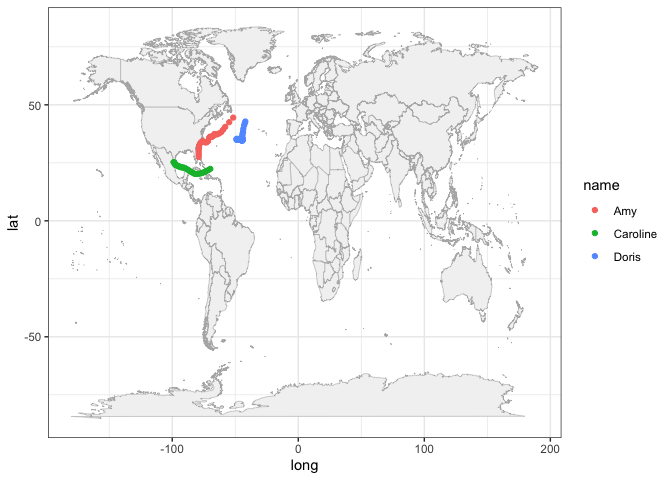
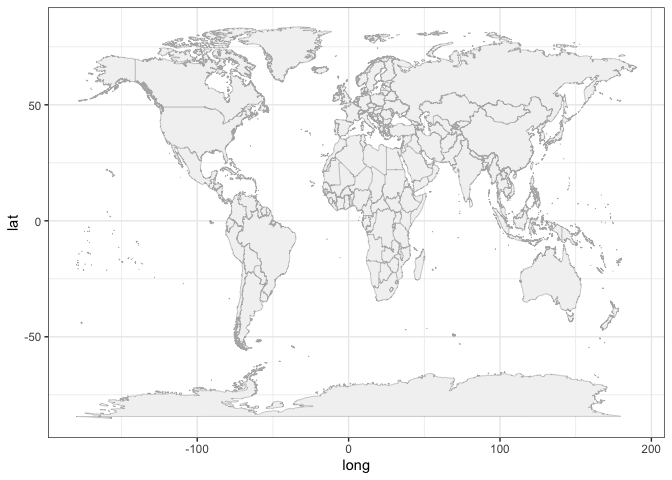
Update day2 part2 files

diff --git a/all_class_resources/Module1-Hurricanes/806-edss-day2-part2.md b/all_class_resources/Module1-Hurricanes/806-edss-day2-part2.md
@@ -3,12 +3,19 @@ Day 2.2): Mapping Hurricanes
 
 ## Basic Geospatial EDA
 
+In the previous parts, you were introduced to the basics of `"dplyr"`
+and `"ggplot2"`, performing various operations on the data `storms`.
+Because this data set contains geographical information such as
+longitude and latitude, we take a further step in this chapter in order
+to learn about plotting basic geographical maps.
+
 You will need the following packages:
 
 ``` r
-library(dplyr)
-library(ggplot2)
-library(maps)
+library(dplyr)    # for syntactic manipulation of tables
+library(ggplot2)  # for making graphs based on tabular data
+library(maps)     # for drawing basic geographical maps
+library(rnaturalearth)   # world map data from Natural Earth
 ```
 
 and the following objects:
@@ -19,21 +26,29 @@ storms75 <- filter(storms, year == 1975)
 
 ## Graphing Maps
 
-In this chapter, we give a basic exposure to plotting maps with
-`"ggplot2"` and `"maps"`. Keep in mind that there is a wide array of
-packages for graphing all sorts of maps, and geospatial information.
-Good resources to look at are:
+In this part, we give a basic exposure to plotting maps with `"ggplot2"`
+and `"maps"`. Keep in mind that there is a wide array of packages for
+graphing all sorts of maps, and geospatial information. Good resources
+to look at are:
 
-<a href="https://geocompr.robinlovelace.net/" target="_blank">Geocomputation
-with R</a> (by Robin Lovelace, Jakub Nowosad, and Jannes Muenchow)
+  - <a href="https://www.r-spatial.org/r/2018/10/25/ggplot2-sf.html" targe="_blank">Drawing
+    beautiful maps programmatically with R, sf and ggplot2</a> (by Mel
+    Moreno and Mathieu Basille)
 
-<a href="https://eriqande.github.io/rep-res-web/lectures/making-maps-with-R.html" target="_target">Making
-Maps with R</a> (by Eric C. Anderson)
+  - <a href="https://geocompr.robinlovelace.net/" target="_blank">Geocomputation
+    with R</a> (by Robin Lovelace, Jakub Nowosad, and Jannes Muenchow)
+
+  - <a href="https://eriqande.github.io/rep-res-web/lectures/making-maps-with-R.html" target="_target">Making
+    Maps with R</a> (by Eric C. Anderson)
 
 ### Plotting location of storm records
 
+For illustration purposes, we continue using the data frame `storms75`.
 Having latitude and longitude, we can make a scatterplot to see the
-location of the storm records
+location of the storm records. Recall that the `ggplot` function to do
+this is `geom_point()`. To distinguish each storm, we can color the dots
+by taking into account the different storm names. This involves
+*mapping* the column `name` to the `color` attribute:
 
 ``` r
 ggplot(data = storms75, aes(x = long, y = lat, color = name)) + 
@@ -42,7 +57,20 @@ ggplot(data = storms75, aes(x = long, y = lat, color = name)) +
 
 ![](806-edss-day2-part2_files/figure-gfm/unnamed-chunk-3-1.png)<!-- -->
 
-This is good, but it would be better to have an actual image of a map.
+Keep in mind that the previous command can also be written as:
+
+``` r
+# alternative ways to write equivalent commands
+ggplot(data = storms75) +  
+  geom_point(aes(x = long, y = lat, color = name))
+
+ggplot() +  
+  geom_point(data = storms75, aes(x = long, y = lat, color = name))
+```
+
+The above scatterplot is a good starting point to visualize the location
+of the storm records, but it would be nice to have an actual image of a
+map. Let’s see how to do this in the following subsections.
 
 ### Basic map
 
@@ -67,7 +95,7 @@ ggplot() +
                aes(x = long, y = lat, group = group))
 ```
 
-![](806-edss-day2-part2_files/figure-gfm/unnamed-chunk-4-1.png)<!-- -->
+![](806-edss-day2-part2_files/figure-gfm/unnamed-chunk-5-1.png)<!-- -->
 
 In the above command, notice how we specify the `data` argument inside
 `geom_polygon()` instead of inside `ggplot()`. We do this because the
@@ -75,9 +103,9 @@ data frame `world_map` is used to graph the layer of the map. We still
 need to add another layer—via `geom_point()`—for the coordinates
 indicating the position of each storm’s record.
 
-For convenience reasons, let’s modify the map, and create a `"ggplot"`
-object called `gg_world`. We’ll use this object as our “canvas” for
-plotting the storm locations:
+To handle the code more easily, let’s modify the map, and create a
+`"ggplot"` object called `gg_world`. We’ll use this object as our
+“canvas” for plotting the storm locations:
 
 ``` r
 # map "canvas" stored as gg_world
@@ -90,11 +118,15 @@ gg_world <- ggplot() +
 gg_world
 ```
 
-![](806-edss-day2-part2_files/figure-gfm/unnamed-chunk-5-1.png)<!-- -->
+![](806-edss-day2-part2_files/figure-gfm/unnamed-chunk-6-1.png)<!-- -->
 
-Then, we can take `gg_world` and add the `geom_point()` layer with data
-`storms75` mapping longitude and latitude coordinates, and coloring
-points by `name`:
+Now that we know how to plot a map with `ggplot()`, we can add the
+points of the storm records. This is done with `geom_point()`, and
+specifying `storms75` as the `data` argument inside this function. In
+other words, we are using two separate data frames. One is `world_map`,
+used to draw the polygons of the map; the other one is `stomrs75` to
+graph the dots of each storm. Notice also that there are no inputs
+provided to the function `ggplot()`.
 
 ``` r
 # world map, adding storms in 1975
@@ -103,9 +135,10 @@ gg_world +
              aes(x = long, y = lat, color = name))
 ```
 
-![](806-edss-day2-part2_files/figure-gfm/unnamed-chunk-6-1.png)<!-- -->
+![](806-edss-day2-part2_files/figure-gfm/unnamed-chunk-7-1.png)<!-- -->
 
-We can try zooming-in by modifying the x-and-y axis limits:
+Because the analyzed hurricanes occurred in the North Atlantic basin, we
+can focus on that region by modifying the x-and-y axis limits:
 
 ``` r
 # zoom-in
@@ -116,10 +149,14 @@ gg_world +
   ylim(c(0, 90))
 ```
 
-![](806-edss-day2-part2_files/figure-gfm/unnamed-chunk-7-1.png)<!-- -->
+![](806-edss-day2-part2_files/figure-gfm/unnamed-chunk-8-1.png)<!-- -->
 
-And then keep exploring things by taking into account more variables.
-For instance, let’s map `wind` to the `size` argument of points.
+It’s worth mentioning that this zooming-in has a secondary effect of
+distorting some of the polygons. For example, Alaska seems to get cut in
+half. Also the polygon of Colombia is incomplete. Ignoring these
+distortions for now, we can continue exploring things by taking into
+account more variables. For instance, let’s map the `wind` speed to the
+`size` argument of points.
 
 ``` r
 gg_world +
@@ -130,9 +167,10 @@ gg_world +
   ylim(c(0, 90))
 ```
 
-![](806-edss-day2-part2_files/figure-gfm/unnamed-chunk-8-1.png)<!-- -->
+![](806-edss-day2-part2_files/figure-gfm/unnamed-chunk-9-1.png)<!-- -->
 
-A very similar appearance can be achieved with `geom_path()`
+A very similar appearance can be achieved by replacing `geom_point()`
+with `geom_path()`:
 
 ``` r
 gg_world +
@@ -143,7 +181,65 @@ gg_world +
   ylim(c(0, 90))
 ```
 
-![](806-edss-day2-part2_files/figure-gfm/unnamed-chunk-9-1.png)<!-- -->
+![](806-edss-day2-part2_files/figure-gfm/unnamed-chunk-10-1.png)<!-- -->
+
+### More mapping approaches
+
+Another interesting map graphing approach is by using map-objects from
+the package `"rnaturalearth"`.
+
+We use the `ne_countries()` function—from `"rnaturalearth"`—to get world
+country polygons. In the following command, we specify a `medium` scale
+resolution, and a returned object of class `"sf"` (simple features).
+
+``` r
+# another world data frame
+world_df <- ne_countries(scale = "medium", returnclass = "sf")
+class(world_df)
+```
+
+    ## [1] "sf"         "data.frame"
+
+Now we can pass `world_df` to `ggplot()`, and use `geom_sf()` which is
+the function that allows us to visualize *simple features* objects
+`"sf"`.
+
+``` r
+# another world map (from "rnaturalearth")
+ggplot(data = world_df) +
+  geom_sf() + 
+  theme_bw()
+```
+
+![](806-edss-day2-part2_files/figure-gfm/world3-1.png)<!-- -->
+
+One advantage of using this other mapping approach is that we can
+zoom-in without having distorted polygons. To focus on a specfic region,
+we set the x-axis and y-axis limits with the `coord_sf()` function.
+Again, for coding convenience, let’s create another `"ggplot"` object
+
+``` r
+# ggplot object to be used as a canvas
+gg_world2 <- ggplot(data = world_df) +
+  geom_sf() + 
+  coord_sf(xlim = c(-150, 0), ylim = c(0, 90), expand = TRUE) +
+  theme_bw()
+
+gg_world2
+```
+
+![](806-edss-day2-part2_files/figure-gfm/world4-1.png)<!-- -->
+
+Now let’s add the storms:
+
+``` r
+gg_world2 + 
+  geom_path(data = storms75,
+            aes(x = long, y = lat, color = name),
+            lineend = "round", size = 2, alpha = 0.8)
+```
+
+![](806-edss-day2-part2_files/figure-gfm/storms75map5-1.png)<!-- -->
 
 ### Storms from 1975 to 1980
 
@@ -167,12 +263,12 @@ gg_world +
   facet_wrap(~ year)
 ```
 
-<img src="806-edss-day2-part2_files/figure-gfm/unnamed-chunk-11-1.png" width="90%" />
+<img src="806-edss-day2-part2_files/figure-gfm/unnamed-chunk-13-1.png" width="90%" />
 
 ### Exercises
 
 **1)** Filter storms in the 1980’s decade (1980 - 1989) and make a plot,
-with facets by `month.`year\`
+with facets by `month` as well as by `year`
 
   - Which year seems to have the largest number of storms?
   - Which year seems to have the smallest number of storms?
